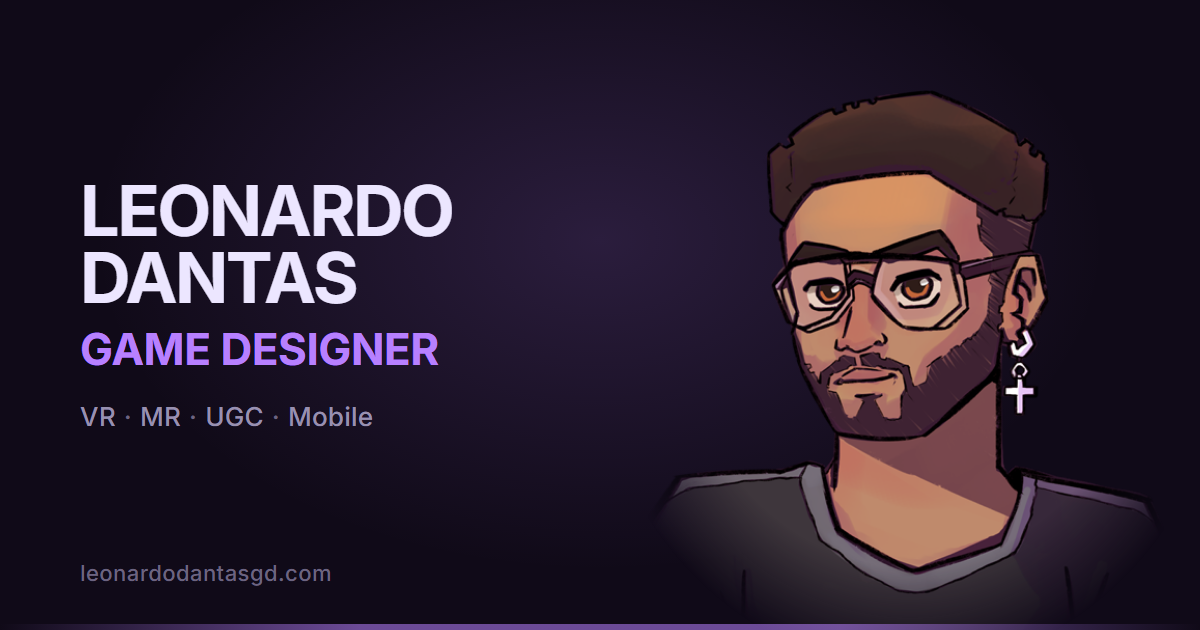
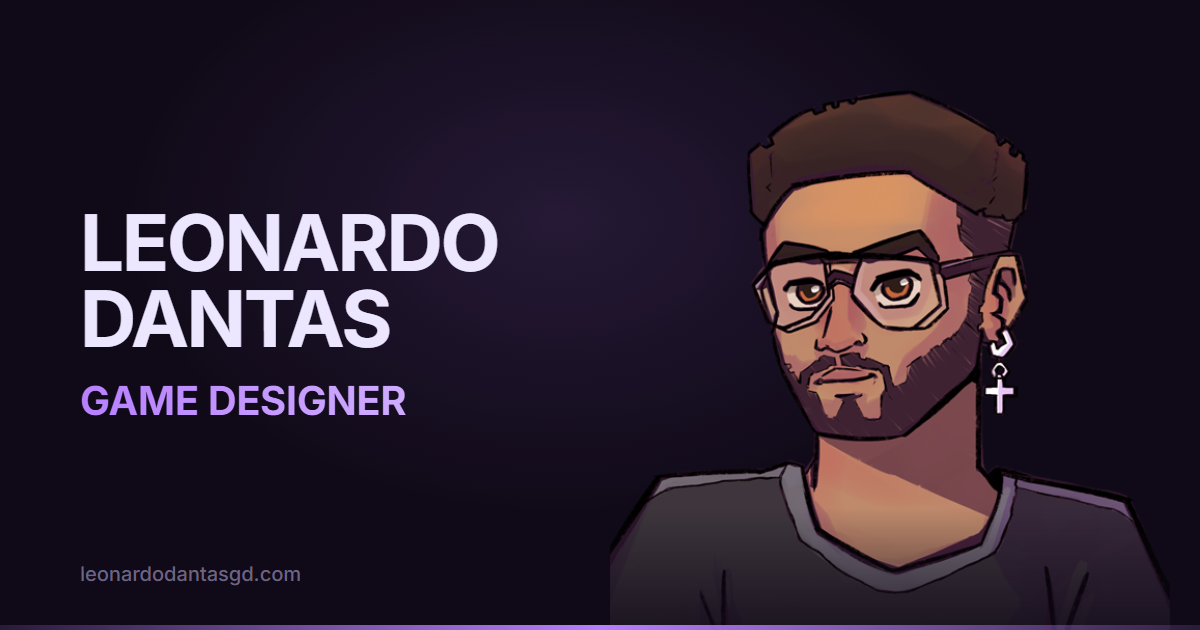
Hover GIFs on covers and share card refresh
- 12 small GIFs (320x200, ~3s, ~6 MB total) in images/hover-*.gif
- Cover swaps to the GIF on hover, on the home list and the All projects grid
- GIF only loads on first hover; static cover on touch devices and with reduced motion
- Each card points to its GIF via data-hover on .proj-img
- New share image without the platform line (name + Game Designer + avatar)
- og:site_name and theme-color on all pages; og:image bumped to ?v=3
- Home share description PC first, with Cruzcredo (Steam) highlighted

diff --git a/index.html b/index.html
@@ -27,19 +27,21 @@
 </script>
 <meta name="description" content="Leonardo Dantas · Game Designer creating games across VR, MR, UGC and Mobile.">
 <meta property="og:type" content="website">
+<meta property="og:site_name" content="leonardodantasgd.com">
+<meta name="theme-color" content="#b780ff">
 <meta property="og:title" content="Leonardo Dantas · Game Designer">
-<meta property="og:description" content="Game Designer creating games across VR, MR, UGC and Mobile.">
+<meta property="og:description" content="Game Designer making games for PC and VR since 2022. Lead Game Designer and Co-Director on Cruzcredo (Steam), with shipped titles for Meta Quest, Horizon Worlds and Holoride, like Blumhouse Horrorverse and Coffee Fest.">
 <!-- Quando o site tiver domínio, descomente e troque pela URL absoluta de uma imagem 1200x630: -->
 <!-- Preview ao compartilhar o link (LinkedIn/WhatsApp/Discord). Para ativar:
      1) exporte images/og-cover.svg como og-cover.png (1200x630);
      2) troque SEU-SITE pela URL real do site no ar. -->
-<meta property="og:image" content="https://leonardodantasgd.com/images/og-cover.png?v=2">
+<meta property="og:image" content="https://leonardodantasgd.com/images/og-cover.png?v=3">
 <meta property="og:image:width" content="1200">
 <meta property="og:image:height" content="630">
 <meta name="twitter:card" content="summary_large_image">
 <meta name="twitter:title" content="Leonardo Dantas · Game Designer">
-<meta name="twitter:description" content="Game Designer creating games across VR, MR, UGC and Mobile.">
-<meta name="twitter:image" content="https://leonardodantasgd.com/images/og-cover.png?v=2">
+<meta name="twitter:description" content="Game Designer making games for PC and VR since 2022. Lead Game Designer and Co-Director on Cruzcredo (Steam), with shipped titles for Meta Quest, Horizon Worlds and Holoride, like Blumhouse Horrorverse and Coffee Fest.">
+<meta name="twitter:image" content="https://leonardodantasgd.com/images/og-cover.png?v=3">
 <link rel="icon" type="image/png" href="images/favicon.png">
 <link rel="apple-touch-icon" href="images/apple-touch-icon.png">
 <link rel="preconnect" href="https://fonts.googleapis.com">
@@ -558,6 +560,10 @@
   .show-more-btn:hover .count { color: var(--accent); }
   .proj.is-collapsed { display: none; }
 
+  /* GIF na capa ao passar o mouse: vem do data-hover da .proj-img e só é baixado no primeiro hover */
+  .hover-gif { position: absolute; inset: 0; width: 100%; height: 100%; object-fit: cover; z-index: 1; opacity: 0; transition: opacity 160ms; pointer-events: none; }
+  .hover-gif.on { opacity: 1; }
+
   /* ───── "Ver todos os projetos": botão no fim da home (a home mostra até 6) ───── */
   .all-row { margin-top: 26px; display: flex; justify-content: center; }
   .all-btn {
@@ -808,7 +814,7 @@
   <div class="proj-list" id="proList">
 
     <article class="proj">
-      <div class="proj-img"><img alt="" loading="lazy" decoding="async" style="position:absolute;inset:0;width:100%;height:100%;object-fit:cover;z-index:0;" src="images/blumhouse-horrorverse-cover.jpg"><span class="ph">HORRORVERSE</span></div>
+      <div class="proj-img" data-hover="images/hover-blumhouse-horrorverse.gif"><img alt="" loading="lazy" decoding="async" style="position:absolute;inset:0;width:100%;height:100%;object-fit:cover;z-index:0;" src="images/blumhouse-horrorverse-cover.jpg"><span class="ph">HORRORVERSE</span></div>
       <div>
         <h3>Blumhouse Horrorverse <span class="yr">2025</span></h3>
         <div class="where">@ ARVORE Immersive Experiences</div>
@@ -870,7 +876,7 @@
     </article>
 
     <article class="proj">
-      <div class="proj-img"><img alt="" loading="lazy" decoding="async" style="position:absolute;inset:0;width:100%;height:100%;object-fit:cover;z-index:0;" src="images/coffee-fest-cover.jpg"><span class="ph">COFFEE FEST</span></div>
+      <div class="proj-img" data-hover="images/hover-coffee-fest.gif"><img alt="" loading="lazy" decoding="async" style="position:absolute;inset:0;width:100%;height:100%;object-fit:cover;z-index:0;" src="images/coffee-fest-cover.jpg"><span class="ph">COFFEE FEST</span></div>
       <div>
         <h3>Coffee Fest <span class="yr">2026</span></h3>
         <div class="where">@ ARVORE Immersive Experiences</div>
@@ -929,7 +935,7 @@
     </article>
 
     <article class="proj">
-      <div class="proj-img"><img alt="" loading="lazy" decoding="async" style="position:absolute;inset:0;width:100%;height:100%;object-fit:cover;z-index:0;" src="images/cruzcredo-cover.jpg"><span class="ph">CRUZCREDO</span></div>
+      <div class="proj-img" data-hover="images/hover-holyhex-become-a-legend.gif"><img alt="" loading="lazy" decoding="async" style="position:absolute;inset:0;width:100%;height:100%;object-fit:cover;z-index:0;" src="images/cruzcredo-cover.jpg"><span class="ph">CRUZCREDO</span></div>
       <div>
         <h3><span lang="en">HolyHex! Become a Legend</span><span lang="pt">Cruzcredo! Torne-se uma Lenda</span> <span class="yr">TBD</span></h3>
         <div class="where">@ Ginga Studios</div>
@@ -992,7 +998,7 @@
         </div>
       </template>
     </article><article class="proj">
-      <div class="proj-img"><img alt="" loading="lazy" decoding="async" style="position:absolute;inset:0;width:100%;height:100%;object-fit:cover;z-index:0;" src="images/universal-monsters-arena-cover.jpg"><span class="ph">MONSTERS</span></div>
+      <div class="proj-img" data-hover="images/hover-universal-monsters-arena.gif"><img alt="" loading="lazy" decoding="async" style="position:absolute;inset:0;width:100%;height:100%;object-fit:cover;z-index:0;" src="images/universal-monsters-arena-cover.jpg"><span class="ph">MONSTERS</span></div>
       <div>
         <h3>Universal Monsters Arena <span class="yr">2024</span></h3>
         <div class="where">@ ARVORE Immersive Experiences</div>
@@ -1047,7 +1053,7 @@
     </article>
 
     <article class="proj">
-      <div class="proj-img"><img alt="" loading="lazy" decoding="async" style="position:absolute;inset:0;width:100%;height:100%;object-fit:cover;z-index:0;" src="images/the-office-world-cover.jpg"><span class="ph">OFFICE</span></div>
+      <div class="proj-img" data-hover="images/hover-the-office-world.gif"><img alt="" loading="lazy" decoding="async" style="position:absolute;inset:0;width:100%;height:100%;object-fit:cover;z-index:0;" src="images/the-office-world-cover.jpg"><span class="ph">OFFICE</span></div>
       <div>
         <h3>The Office World <span class="yr">2024</span></h3>
         <div class="where">@ ARVORE Immersive Experiences</div>
@@ -1106,7 +1112,7 @@
     
 
   <article class="proj">
-    <div class="proj-img"><img alt="" loading="lazy" decoding="async" style="position:absolute;inset:0;width:100%;height:100%;object-fit:cover;z-index:0;" src="images/yuki-mrcade-cover.jpg"><span class="ph">YUKI</span></div>
+    <div class="proj-img" data-hover="images/hover-yuki-mrcade.gif"><img alt="" loading="lazy" decoding="async" style="position:absolute;inset:0;width:100%;height:100%;object-fit:cover;z-index:0;" src="images/yuki-mrcade-cover.jpg"><span class="ph">YUKI</span></div>
     <div>
       <h3>YUKI MRcade <span class="yr">2023</span></h3>
       <div class="where">@ ARVORE Immersive Experiences</div>
@@ -1153,7 +1159,7 @@
   </article>
 
   <article class="proj">
-    <div class="proj-img"><img alt="" loading="lazy" decoding="async" style="position:absolute;inset:0;width:100%;height:100%;object-fit:cover;z-index:0;" src="images/pixel-ripped-1995-on-the-road-cover.jpg"><span class="ph">PIXEL RIPPED</span></div>
+    <div class="proj-img" data-hover="images/hover-pixel-ripped-1995-on-the-road.gif"><img alt="" loading="lazy" decoding="async" style="position:absolute;inset:0;width:100%;height:100%;object-fit:cover;z-index:0;" src="images/pixel-ripped-1995-on-the-road-cover.jpg"><span class="ph">PIXEL RIPPED</span></div>
     <div>
       <h3>Pixel Ripped 1995: On the Road <span class="yr">2022</span></h3>
       <div class="where">@ ARVORE Immersive Experiences</div>
@@ -1221,7 +1227,7 @@
   <div class="proj-list" id="perList">
 
     <article class="proj">
-      <div class="proj-img"><img alt="" loading="lazy" decoding="async" style="position:absolute;inset:0;width:100%;height:100%;object-fit:cover;object-position:8% center;z-index:0;" src="images/guardiao-tupa-cover.jpg"><span class="ph">GUARDIÃO</span></div>
+      <div class="proj-img" data-hover="images/hover-guardiao-tupa.gif"><img alt="" loading="lazy" decoding="async" style="position:absolute;inset:0;width:100%;height:100%;object-fit:cover;object-position:8% center;z-index:0;" src="images/guardiao-tupa-cover.jpg"><span class="ph">GUARDIÃO</span></div>
       <div>
         <h3>Guardião Tupã <span class="yr">TBD</span></h3>
         <div class="where">@ Beyond The Wall</div>
@@ -1281,7 +1287,7 @@
     </article>
 
     <article class="proj">
-      <div class="proj-img"><img alt="" loading="lazy" decoding="async" style="position:absolute;inset:0;width:100%;height:100%;object-fit:cover;z-index:0;" src="images/magic-realm-cover-1.png"><span class="ph">MAGIC</span></div>
+      <div class="proj-img" data-hover="images/hover-magic-realm.gif"><img alt="" loading="lazy" decoding="async" style="position:absolute;inset:0;width:100%;height:100%;object-fit:cover;z-index:0;" src="images/magic-realm-cover-1.png"><span class="ph">MAGIC</span></div>
       <div>
         <h3><span lang="en">Magic Realm · Graduation Project</span><span lang="pt">Magic Realm · TCC</span> <span class="yr">2020</span></h3>
         <div class="desc">
@@ -1342,7 +1348,7 @@
     </article>
 
     <article class="proj">
-      <div class="proj-img"><img alt="" loading="lazy" decoding="async" style="position:absolute;inset:0;width:100%;height:100%;object-fit:cover;z-index:0;" src="images/jello-quest-cover.jpg"><span class="ph">JELLO</span></div>
+      <div class="proj-img" data-hover="images/hover-jello-quest-blob-war.gif"><img alt="" loading="lazy" decoding="async" style="position:absolute;inset:0;width:100%;height:100%;object-fit:cover;z-index:0;" src="images/jello-quest-cover.jpg"><span class="ph">JELLO</span></div>
       <div>
         <h3>Jello Quest: Blob War <span class="yr">2023</span></h3>
         <div class="desc">
@@ -1400,7 +1406,7 @@
     </article>
 
     <article class="proj">
-      <div class="proj-img"><img alt="" loading="lazy" decoding="async" style="position:absolute;inset:0;width:100%;height:100%;object-fit:cover;z-index:0;" src="images/tamagotchi-hell-cover-1.png"><span class="ph">TAMAGOTCHI</span></div>
+      <div class="proj-img" data-hover="images/hover-tamagotchi-hell.gif"><img alt="" loading="lazy" decoding="async" style="position:absolute;inset:0;width:100%;height:100%;object-fit:cover;z-index:0;" src="images/tamagotchi-hell-cover-1.png"><span class="ph">TAMAGOTCHI</span></div>
       <div>
         <h3>Tamagotchi Hell <span class="yr">2022</span></h3>
         <div class="desc">
@@ -1444,7 +1450,7 @@
     </article>
 
     <article class="proj">
-      <div class="proj-img"><img alt="" loading="lazy" decoding="async" style="position:absolute;inset:0;width:100%;height:100%;object-fit:cover;z-index:0;" src="images/kitty-cubes-cover-1.png"><span class="ph">KITTY</span></div>
+      <div class="proj-img" data-hover="images/hover-kitty-cubes.gif"><img alt="" loading="lazy" decoding="async" style="position:absolute;inset:0;width:100%;height:100%;object-fit:cover;z-index:0;" src="images/kitty-cubes-cover-1.png"><span class="ph">KITTY</span></div>
       <div>
         <h3>Kitty Cubes <span class="yr">2022</span></h3>
         <div class="desc">
@@ -1663,6 +1669,22 @@
       return '<img alt="" loading="lazy" src="' + esc(img.getAttribute('src') || '') + '"' + pos + '>';
     };
 
+    // GIF na capa ao passar o mouse (home e tela "Todos"). Só em aparelho com mouse e sem "reduzir movimento";
+    // no celular a capa fica parada. O GIF só é baixado no primeiro hover e recomeça a cada vez.
+    const canHover = matchMedia('(hover: hover) and (pointer: fine)').matches && !matchMedia('(prefers-reduced-motion: reduce)').matches;
+    function hoverGif(trigger, box, a) {
+      const src = canHover && box && a.querySelector('.proj-img[data-hover]') && a.querySelector('.proj-img').getAttribute('data-hover');
+      if (!src) return;
+      let gif = null;
+      trigger.addEventListener('mouseenter', () => {
+        if (!gif) { gif = document.createElement('img'); gif.className = 'hover-gif'; gif.alt = ''; box.appendChild(gif); }
+        gif.src = src;
+        requestAnimationFrame(() => gif.classList.add('on'));
+      });
+      trigger.addEventListener('mouseleave', () => { if (gif) gif.classList.remove('on'); });
+    }
+    allCards.forEach(a => hoverGif(a, a.querySelector('.proj-img'), a));
+
     // Home: no máximo 6 profissionais, e o botão "Ver todos os projetos" no fim
     const proPanel = document.querySelector('.tab-panel[data-panel="professional"]');
     proCards.forEach((p, i) => p.classList.toggle('is-collapsed', i >= MAX_HOME));
@@ -1719,6 +1741,7 @@
         '<button type="button" class="ag-card" data-i="' + i + '"><span class="ag-img">' + coverImg(a) +
         (label ? '<span class="ag-yr">' + esc(label) + '</span>' : '') + '</span>' +
         '<span class="ag-n">' + titleHTML(a) + '</span><span class="ag-r">' + roleHTML(a) + '</span></button>').join('');
+      grid.querySelectorAll('.ag-card').forEach(c => hoverGif(c, c.querySelector('.ag-img'), allCards[+c.dataset.i]));
     }
 
     // Linha do tempo: um ano por coluna, o mais recente à esquerda; no celular vira lista (CSS)

diff --git a/About.html b/About.html
@@ -27,13 +27,15 @@
 </script>
 <meta name="description" content="About Leonardo Dantas · Game Designer creating games across VR, MR, UGC and Mobile. Bio, timeline, education and skills.">
 <meta property="og:type" content="website">
+<meta property="og:site_name" content="leonardodantasgd.com">
+<meta name="theme-color" content="#b780ff">
 <meta property="og:title" content="About · Leonardo Dantas">
 <meta property="og:description" content="Game Designer creating games across VR, MR, UGC and Mobile. Bio, timeline, education and skills.">
-<meta property="og:image" content="https://leonardodantasgd.com/images/og-cover.png?v=2">
+<meta property="og:image" content="https://leonardodantasgd.com/images/og-cover.png?v=3">
 <meta property="og:image:width" content="1200">
 <meta property="og:image:height" content="630">
 <meta name="twitter:card" content="summary_large_image">
-<meta name="twitter:image" content="https://leonardodantasgd.com/images/og-cover.png?v=2">
+<meta name="twitter:image" content="https://leonardodantasgd.com/images/og-cover.png?v=3">
 <link rel="icon" type="image/png" href="images/favicon.png">
 <link rel="apple-touch-icon" href="images/apple-touch-icon.png">
 <link rel="preconnect" href="https://fonts.googleapis.com">

diff --git a/Contact.html b/Contact.html
@@ -27,13 +27,15 @@
 </script>
 <meta name="description" content="Contact Leonardo Dantas · Game Designer. Always open to talk about games, design and ideas worth building.">
 <meta property="og:type" content="website">
+<meta property="og:site_name" content="leonardodantasgd.com">
+<meta name="theme-color" content="#b780ff">
 <meta property="og:title" content="Contact · Leonardo Dantas">
 <meta property="og:description" content="Game Designer · always open to talk about games, design and ideas worth building.">
-<meta property="og:image" content="https://leonardodantasgd.com/images/og-cover.png?v=2">
+<meta property="og:image" content="https://leonardodantasgd.com/images/og-cover.png?v=3">
 <meta property="og:image:width" content="1200">
 <meta property="og:image:height" content="630">
 <meta name="twitter:card" content="summary_large_image">
-<meta name="twitter:image" content="https://leonardodantasgd.com/images/og-cover.png?v=2">
+<meta name="twitter:image" content="https://leonardodantasgd.com/images/og-cover.png?v=3">
 <link rel="icon" type="image/png" href="images/favicon.png">
 <link rel="apple-touch-icon" href="images/apple-touch-icon.png">
 <link rel="preconnect" href="https://fonts.googleapis.com">
